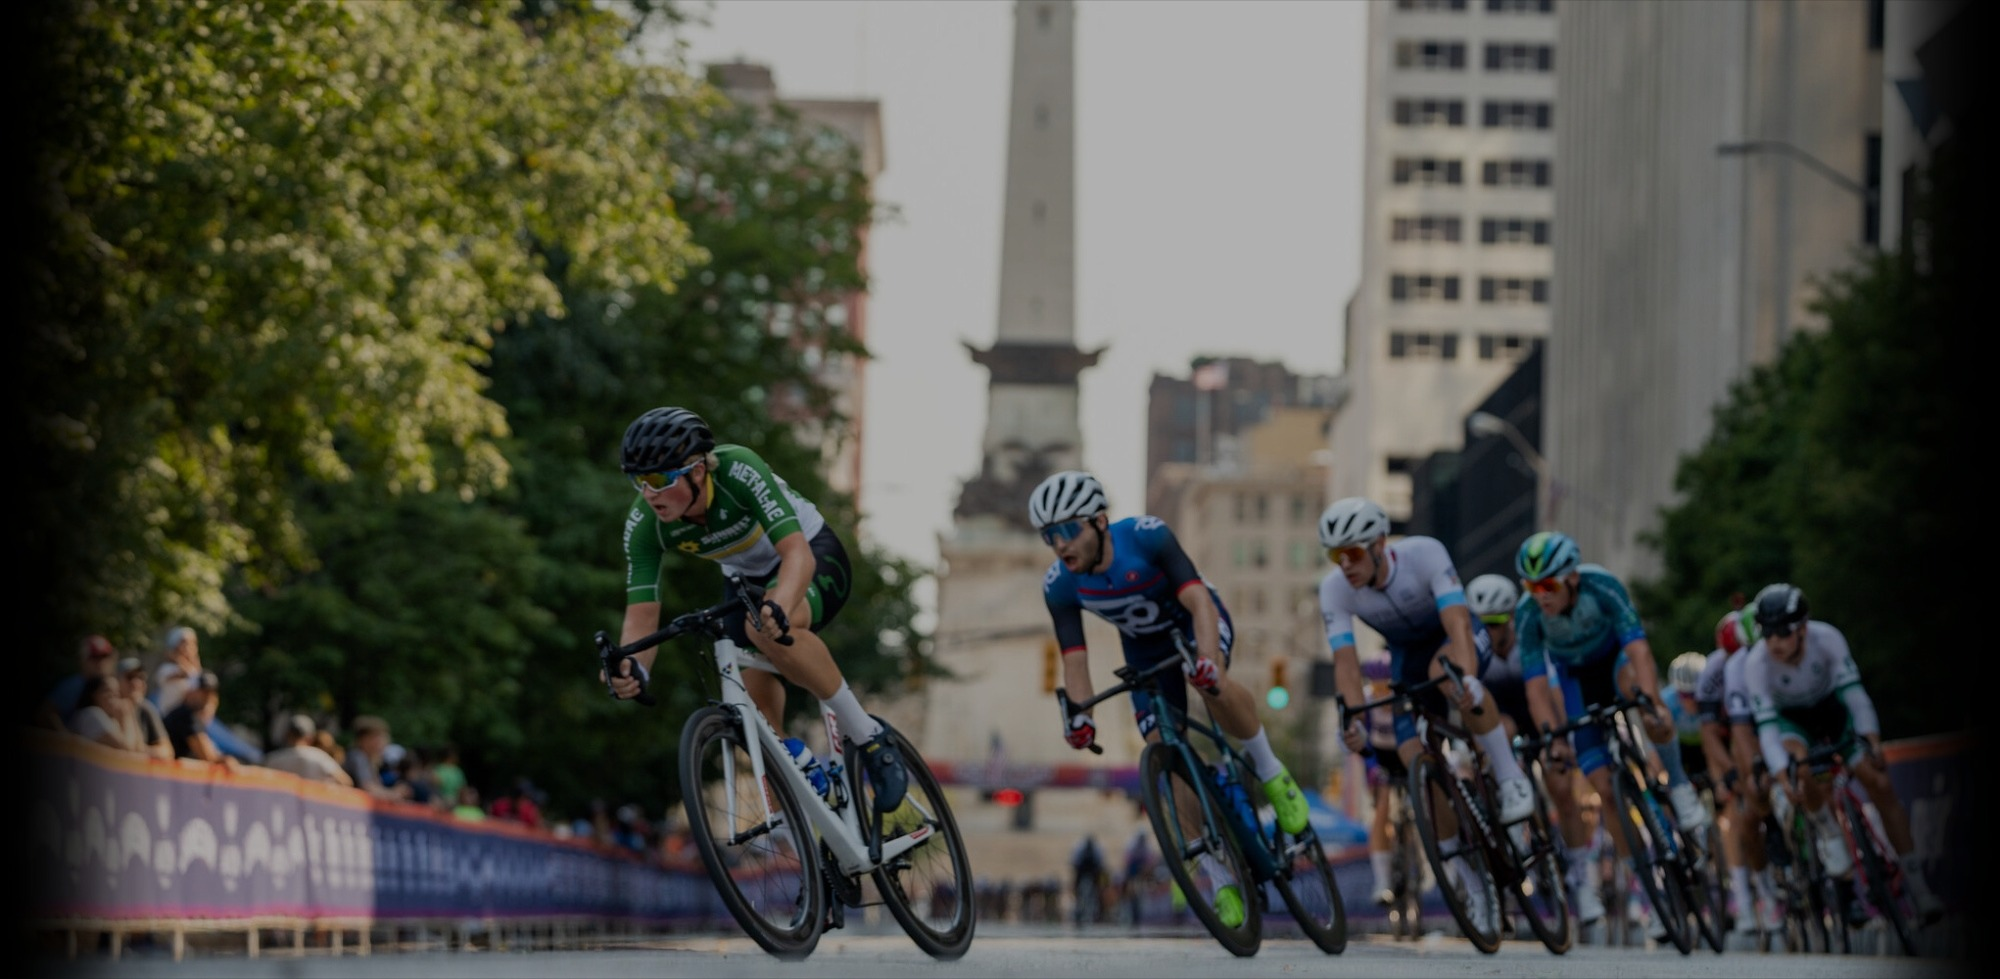
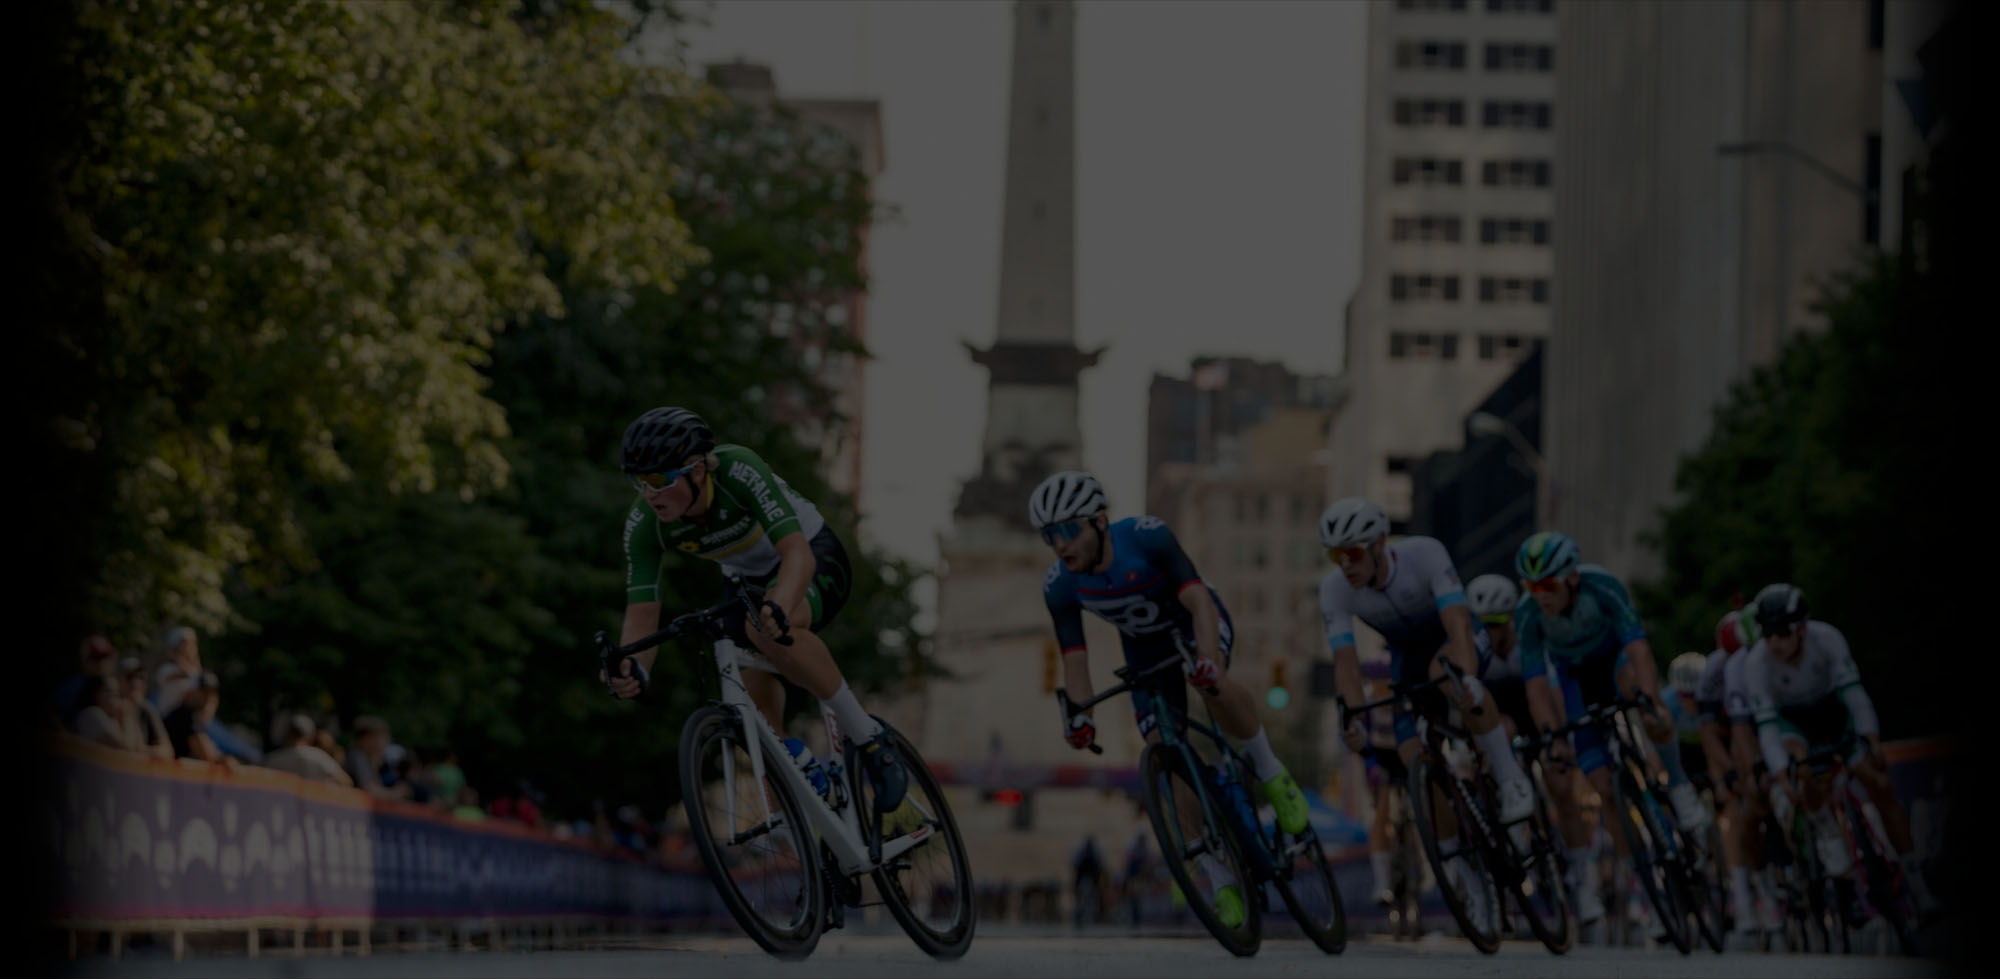
gg

diff --git a/client/public/index.html b/client/public/index.html
@@ -5,7 +5,10 @@
     <link rel="icon" href="%PUBLIC_URL%/favicon.ico" />
     <meta name="viewport" content="width=device-width, initial-scale=1" />
     <meta name="theme-color" content="#000000" />
-    <meta name="description" content="Web site created using create-react-app" />
+    <meta
+      name="description"
+      content="Web site created using create-react-app"
+    />
     <link rel="apple-touch-icon" href="%PUBLIC_URL%/logo192.png" />
     <!--
       manifest.json provides metadata used when your web app is installed on a
@@ -23,8 +26,11 @@
     -->
     <link rel="preconnect" href="https://fonts.googleapis.com" />
     <link rel="preconnect" href="https://fonts.gstatic.com" crossorigin />
-    <link href="https://fonts.googleapis.com/css2?family=Roboto+Condensed:wght@300&display=swap" rel="stylesheet" />
-    <title>PRO 1 REALTY CYCLYING Team</title>
+    <link
+      href="https://fonts.googleapis.com/css2?family=Roboto+Condensed:wght@300&display=swap"
+      rel="stylesheet"
+    />
+    <title>Pro 1 Realty Cycling Team</title>
   </head>
   <body>
     <noscript>You need to enable JavaScript to run this app.</noscript>

diff --git a/client/src/components/privateroute/index.js b/client/src/components/privateroute/index.js
@@ -1,0 +1,27 @@
+import React from "react";
+import { Route, Navigate } from "react-router-dom";
+import PropTypes from "prop-types";
+import { connect } from "react-redux";
+
+const PrivateRoute = ({
+  component: Component,
+  auth: { isAuth, loading },
+  ...rest
+}) => (
+  <Route
+    {...rest}
+    render={(props) =>
+      !isAuth && !loading ? <Navigate to="/login" /> : <Component {...props} />
+    }
+  />
+);
+
+PrivateRoute.propTypes = {
+  auth: PropTypes.object.isRequired,
+};
+
+const mapStateToProps = (state) => ({
+  auth: state.auth,
+});
+
+export default connect(mapStateToProps)(PrivateRoute);

diff --git a/client/src/routes/editschedule/index.js b/client/src/routes/editschedule/index.js
@@ -1,8 +1,11 @@
 import React from "react";
 import AddSchedule from "./AddSchedule";
 import Schedule from "./Schedule";
+import { connect } from "react-redux";
+import { Navigate } from "react-router-dom";
 
-const index = () => {
+const index = ({ isAuth }) => {
+  if (!isAuth) return <Navigate to="/login" />;
   return (
     <>
       <AddSchedule />
@@ -11,4 +14,8 @@ const index = () => {
   );
 };
 
-export default index;
+const mapStateToProps = (state) => ({
+  isAuth: state.auth.isAuth,
+});
+
+export default connect(mapStateToProps, null)(index);

diff --git a/client/src/routes/editteam/index.js b/client/src/routes/editteam/index.js
@@ -1,8 +1,11 @@
 import React from "react";
 import AddMember from "./AddMember";
 import Members from "./Members";
+import { connect } from "react-redux";
+import { Navigate } from "react-router-dom";
 
-const index = () => {
+const index = ({ isAuth }) => {
+  if (!isAuth) return <Navigate to="/login" />;
   return (
     <>
       <AddMember />
@@ -11,4 +14,8 @@ const index = () => {
   );
 };
 
-export default index;
+const mapStateToProps = (state) => ({
+  isAuth: state.auth.isAuth,
+});
+
+export default connect(mapStateToProps, null)(index);

diff --git a/client/src/routes/editnews/index.js b/client/src/routes/editnews/index.js
@@ -1,8 +1,11 @@
 import React from "react";
 import AddNews from "./AddNews";
 import News from "./News";
+import { connect } from "react-redux";
+import { Navigate } from "react-router-dom";
 
-const index = () => {
+const index = ({ isAuth }) => {
+  if (!isAuth) return <Navigate to="/login" />;
   return (
     <>
       <AddNews />
@@ -11,4 +14,8 @@ const index = () => {
   );
 };
 
-export default index;
+const mapStateToProps = (state) => ({
+  isAuth: state.auth.isAuth,
+});
+
+export default connect(mapStateToProps, null)(index);

diff --git a/client/src/routes/about/style.scss b/client/src/routes/about/style.scss
@@ -91,7 +91,12 @@
 }
 
 .about-right-img-container {
-  background: linear-gradient(to right, rgba(255, 255, 255, 0) 400px, $secondary-color 490px, $secondary-color 500px),
+  background: linear-gradient(
+      to right,
+      rgba(255, 255, 255, 0) 400px,
+      $secondary-color 490px,
+      $secondary-color 500px
+    ),
     url(../../img/aboutteam.jpeg) no-repeat;
   height: 250px;
   width: 500px;

diff --git a/client/src/components/menu/Menu.js b/client/src/components/menu/Menu.js
@@ -22,7 +22,7 @@ const adminRoutes = [
   { route: "/editteam", image: false, text: "TEAM" },
   { route: "/editschedule", image: false, text: "SCHEDULE" },
   { route: "/editnews", image: false, text: "NEWS" },
-  { route: "/editnews", image: false, text: "LOGOUT", useLogout: true },
+  { route: "/login", image: false, text: "LOGOUT", useLogout: true },
 ];
 
 const Menu = ({ isAuth, logout }) => {

diff --git a/client/src/components/index.js b/client/src/components/index.js
@@ -6,6 +6,7 @@ export { default as Table } from "./table";
 export { default as Bar } from "./bar";
 export { default as Grid } from "./grid";
 export { default as List } from "./list";
+export { default as PrivateRoute } from "./privateroute";
 export * from "./buttons";
 export * from "./form";
 export * from "./errors";

diff --git a/client/src/routes/about/Cover.js b/client/src/routes/about/Cover.js
@@ -4,6 +4,7 @@ import LandingImg from "img/landing.jpg";
 const Cover = () => {
   return (
     <div className="cover">
+      <div className="overlay"></div>
       <img className="coverImg" src={LandingImg} alt="AiBC" />
       <div className="centered">
         <div className="special">PRO 1 REALTY</div>

diff --git a/client/src/App.js b/client/src/App.js
@@ -7,7 +7,7 @@ import store from "./reduxStore/store/store";
 import "./App.css";
 
 // Routes
-import { Menu, Footer } from "./components";
+import { Menu, Footer, PrivateRoute } from "./components";
 
 import {
   About,
